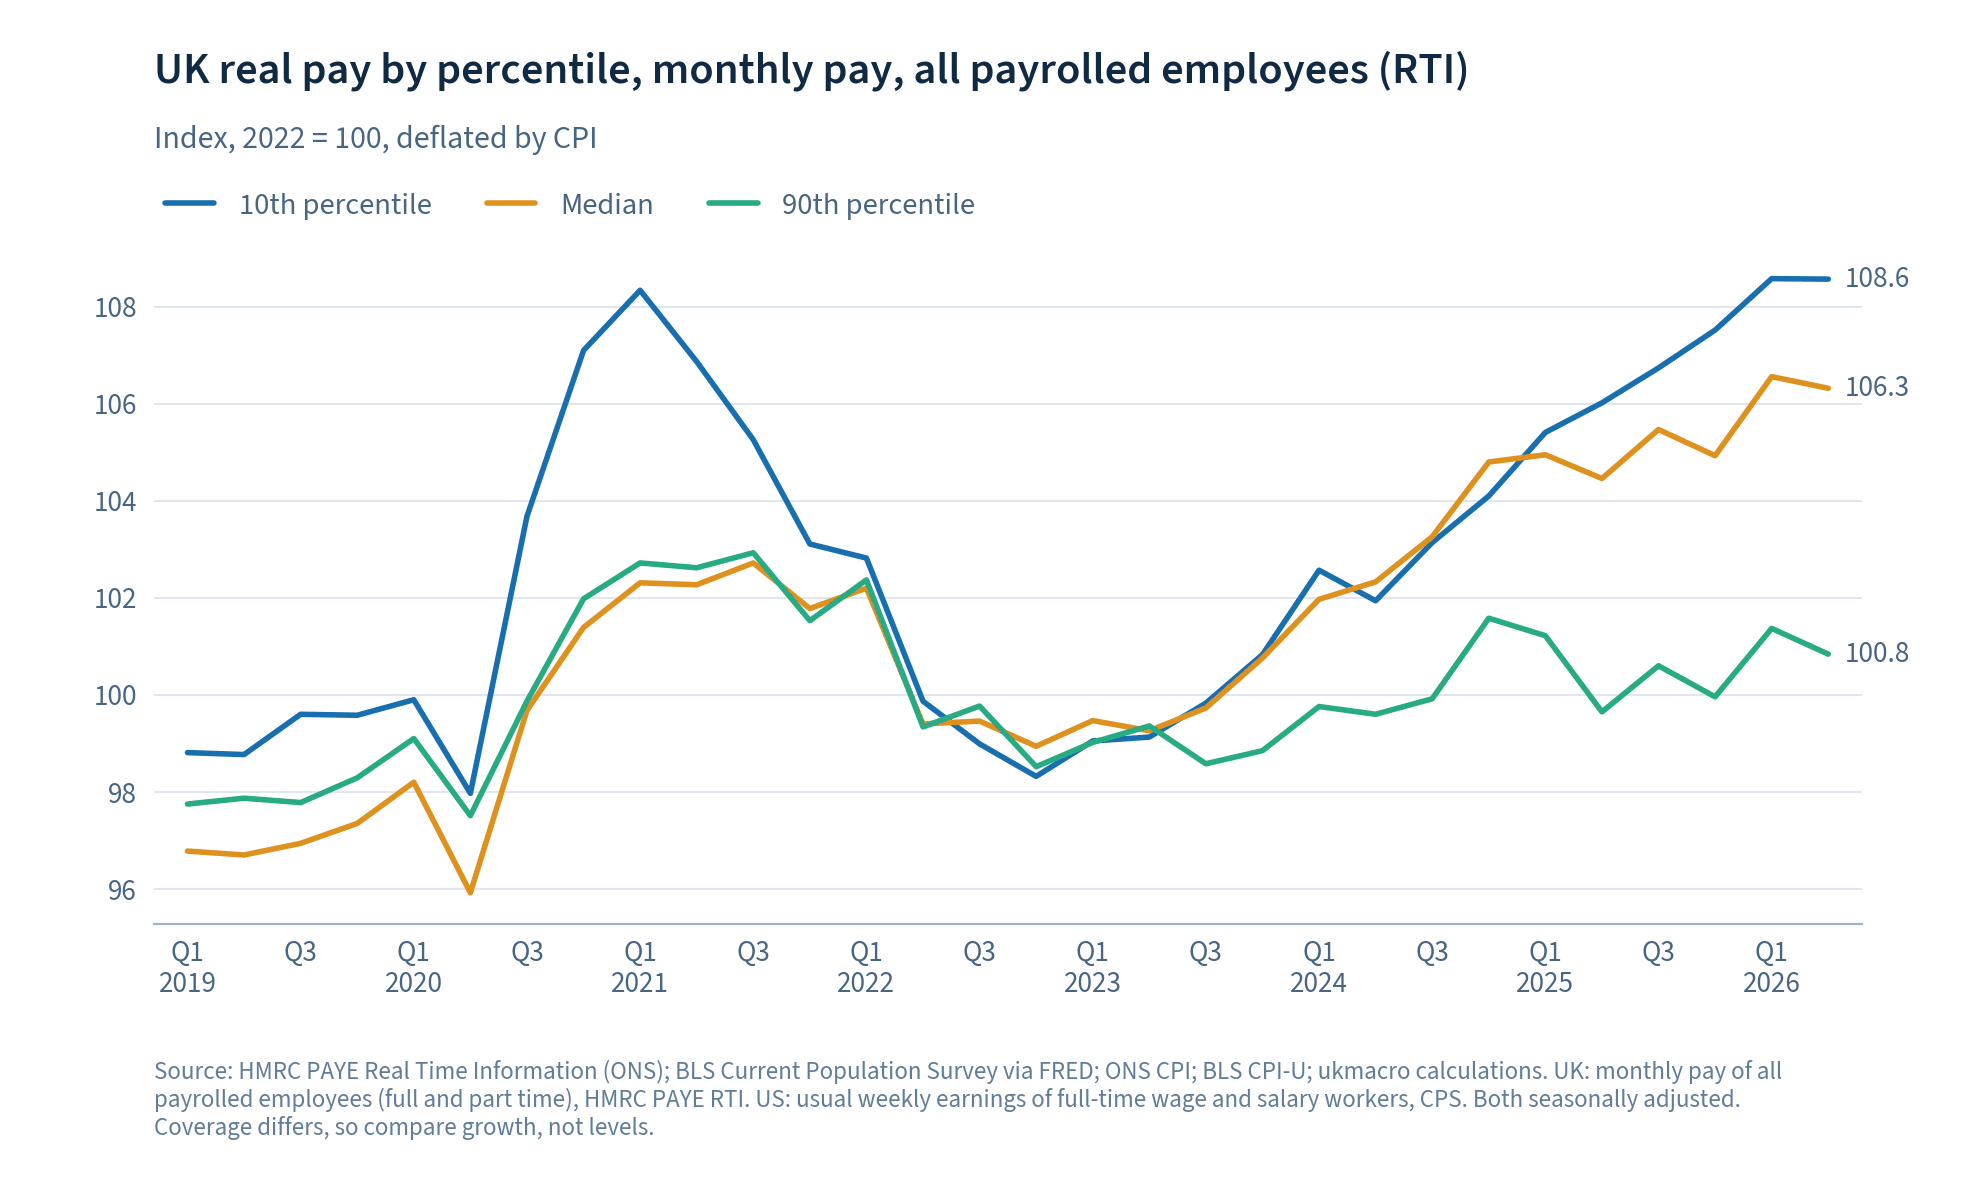
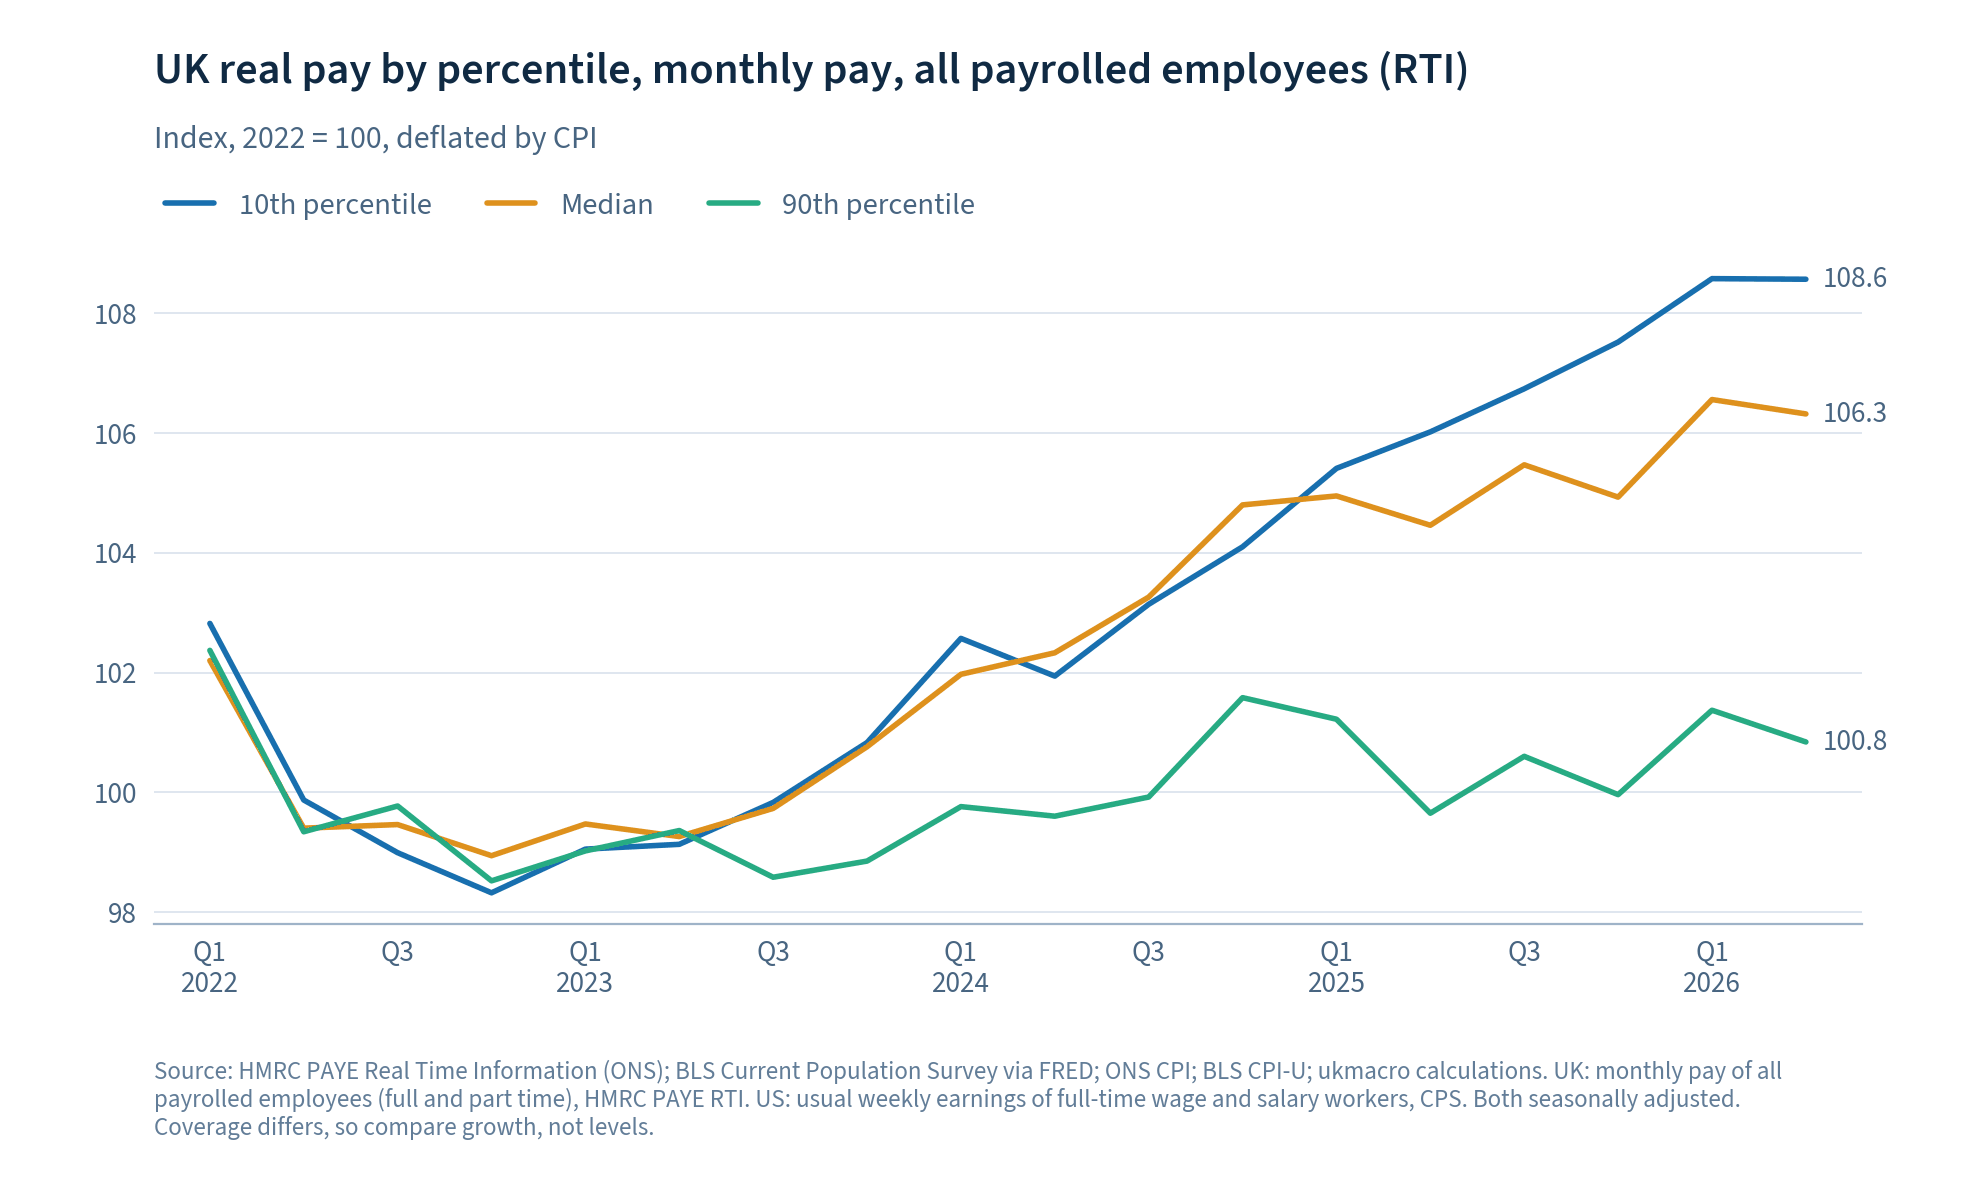
Pay percentiles: show from 2022

diff --git a/builders/labour-markets/pay_distribution.py b/builders/labour-markets/pay_distribution.py
@@ -37,7 +37,7 @@ PERCENTILES = {"p10": ("10th percentile", "10th percentile"),
 # FRED copies of BLS series LEU0252911200, LEU0252881500, LEU0252911500 (quarterly)
 US_SERIES = {"p10": "LEU0252911200Q", "p50": "LEU0252881500Q", "p90": "LEU0252911500Q"}
 FRED = "https://fred.stlouisfed.org/graph/fredgraph.csv?id={}"
-START = "2019"       # first quarter shown
+START = "2022"       # first quarter shown
 BASE_YEAR = "2022"   # index base and growth start
 SOURCE = ("HMRC PAYE Real Time Information (ONS); BLS Current Population Survey via FRED; "
           "ONS CPI; BLS CPI-U; ukmacro calculations")
